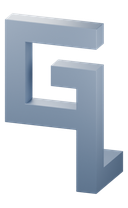
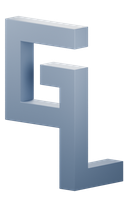
Update the static GL header mark (#88)

diff --git a/docs/gl-mark.md b/docs/gl-mark.md
@@ -1,84 +1,38 @@
 # GL header mark
 
-Website issue #18 imports Garett's approved sculpture from
-[gloghry/icon PR #8](https://github.com/gloghry/icon/pull/8). Garett supplied the
-sculpture reference, approved the geometry baseline, and directed its design;
-Codex implemented the model, static exports, and site integration.
+Garett Loghry supplied the sculpture design and selected its camera view.
+The original variant is built offline with Blender; Jekyll serves prebuilt files.
+Codex implemented the procedural model, static exports and automated handoff.
 
-The source is the named `original` variant at commit
-[`13223fe248db03a3f80d376c63a60251eb7df563`](https://github.com/gloghry/icon/commit/13223fe248db03a3f80d376c63a60251eb7df563).
-Machine-readable provenance, image dimensions, and SHA-256 hashes are in
-[gl-mark-provenance.json](gl-mark-provenance.json). The G's left back ends at its
-lower bar; only its right return continues down as the square L stem, with the
-compact foot extending along +Y. The approved follow-up extends total foot
-length 20%, from 3.0 to 3.6, with the G and camera settings preserved. The same continuous solid supplies front,
-side, and three-quarter previews.
+## Current export
 
-## Static handoff
+[gl-mark-provenance.json](gl-mark-provenance.json) records the public asset
+hashes, image dimensions, camera settings and immutable source identity.
+The source is [gloghry/icon](https://github.com/gloghry/icon), asset commit
+[`9d024ef98780051115336954fc6c0382a9d84c84`](https://github.com/gloghry/icon/commit/9d024ef98780051115336954fc6c0382a9d84c84),
+directory `generated/original/web`. This is the last commit changing the
+original generated bundle, rather than a later publisher-only workflow revision.
+It ties the reviewed files to the model/generator history and follows the
+source-commit and hash requirement in [rights.md](rights.md).
+Only the three static files in `assets/images/gl/` are served: the transparent
+128x208 PNG fallback, optimized WebP and simplified SVG favicon. The elevated G
+has a descending right-hand stem shared with the perpendicular L and its +Y foot.
 
-Only these prebuilt files are served by Jekyll:
+The header displays the mark at 32x52 CSS pixels, or 28x45.5 on narrow phones.
+The existing home link, visible name, font, themes and layout remain unchanged.
+The favicon is a separate optical simplification for small browser icons.
 
-- `assets/images/gl/gl-mark.webp` — 128×208 transparent optimized header image,
-  4,966 bytes; approximately 68% smaller than the PNG.
-- `assets/images/gl/gl-mark.png` — 128×208 RGBA fallback, 15,401 bytes.
-- `assets/images/gl/favicon.svg` — simplified GL silhouette for small browser
-  icons, with colors for light and dark system preferences.
+## Updates and review
 
-The header retains the visible name inside a single home link named
-“Garett Loghry — home”. The mark is redundant decoration with empty alt text.
-Intrinsic dimensions reserve its aspect ratio; CSS displays it at 32×52 px,
-or 28×45.5 px on the narrowest phones. WebP is preferred through `<picture>`;
-PNG is the fallback. Asset and home URLs use `relative_url` for root/subpath
-deployments. The Atkinson font, slate/teal themes, copy and navigation behavior
-are preserved. No JavaScript or Blender runtime is added for the mark.
+Approved source changes merge before the source publisher proposes a website
+PR. It copies only these assets and the two provenance documents, and never
+merges or deploys. No source token, Blender, Python or WebGL is required by the
+website to obtain or display the mark. Use the source repository README for
+offline regeneration and publisher setup; do not edit generated images here.
 
-At 16–32 px, the full sculpture loses depth and its compact foot becomes weak.
-The favicon simplifies the same G gaps, descending right upright and angled
-foot. Its media query follows the browser's system color preference; an
-in-page saved theme does not change a separately loaded browser favicon.
-
-## Regenerate and update
-
-Run offline in the **icon repository**, using Blender 4.5.3 LTS and Python 3.10+:
-
-```sh
-python3 -m gl_assets generate original --blender /path/to/blender
-python3 -m venv .venv
-.venv/bin/pip install -r requirements-web.txt
-.venv/bin/python scripts/export_web.py generated/original
-```
-
-Review the three renders and small-size sheet before copying only the PNG,
-WebP and SVG from `generated/original/web/` into `assets/images/gl/` here.
-Record the reviewed source commit and file hashes in the provenance JSON.
-Keep .blend/GLB, generator code, design references and review sheets in the
-source repository. Never fetch or regenerate this mark during Jekyll builds.
-
-## Validation and review
-
-Run the normal Python regression tests, production Jekyll builds and link
-checks at `/` and `/portfolio`, then the browser audit as documented in
-[accessibility.md](accessibility.md). The audit verifies the home-link name,
-actual WebP load, intrinsic dimensions, favicon base path, readable visible
-name, and mark height at all normal audit widths, in Chromium and WebKit.
-It captures `*-header.png` at 320, 390 and 1440 px in both themes, alongside
-the existing accessibility, navigation, reflow and performance checks.
-
-Review those actual-background screenshots before merging this site change.
-Production remains unchanged until owner approval and merge.
-
-The checked review bundle is [gl-mark-review/](gl-mark-review/):
-[both themes at desktop/mobile sizes](gl-mark-review/headers.png), individual
-header captures, and native-size favicon sheets. [validation.json](gl-mark-review/validation.json)
-records the tested source commit, browser versions, viewports, build paths and
-results. The baseline full root and `/portfolio` audits passed 155 scenarios each;
-the site has 33 passing Python checks. The initial local cold-load failure
-also occurred on the unchanged site with the host's Nimbus Sans fallback;
-using the standard browser-test Liberation/Arial fallback resolved it without
-changing site typography or the test threshold.
-
-The approved longer-foot revision passes 33 Python checks, root/subpath builds
-and link checks, and 16 focused Chromium/WebKit header scenarios. Its refreshed
-header screenshots use the longer foot. See
-[longer-foot-validation.json](gl-mark-review/longer-foot-validation.json) for the
-revision, source commit and results. Full browser audits run again in PR CI.
+Before merging a proposal, inspect its exact files and existing website CI.
+Review desktop/mobile header screenshots in both themes, including the root
+URL and a nonempty base path as described in [accessibility.md](accessibility.md).
+The existing [gl-mark-review/](gl-mark-review/) bundle is historical evidence;
+it is not regenerated by the publisher and may show an older mark. Use the
+current PR's browser artifacts/preview for the new export.
